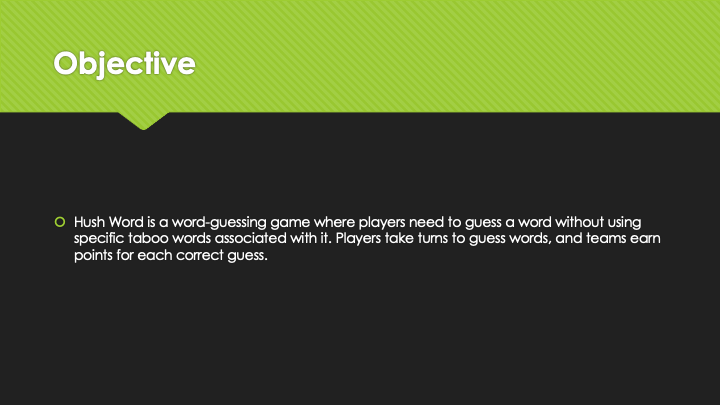
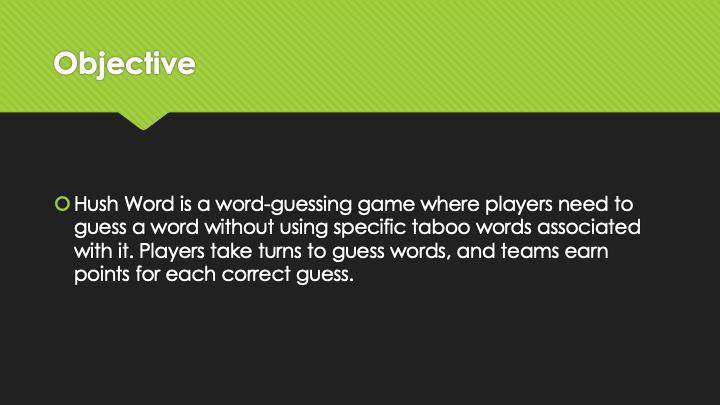
made how to play text larger

Changed region(s): [[0.0611, 0.4741, 0.9167, 0.7111]]

diff --git a/index.html b/index.html
@@ -131,6 +131,8 @@
                     aria-label="Slide 3"></button>
                 <button type="button" data-bs-target="#carouselExampleIndicators" data-bs-slide-to="3"
                     aria-label="Slide 4"></button>
+                    <button type="button" data-bs-target="#carouselExampleIndicators" data-bs-slide-to="4"
+                    aria-label="Slide 5"></button>
 
             </div>
             <div class="carousel-inner">
@@ -145,6 +147,9 @@
                 </div>
                 <div class="carousel-item">
                     <img src="Images/how to play-green/Slide4.png" class="d-block w-100" alt="...">
+                </div>
+                <div class="carousel-item">
+                    <img src="Images/how to play-green/Slide5.png" class="d-block w-100" alt="...">
                 </div>
             </div>
             <button class="carousel-control-prev" type="button" data-bs-target="#carouselExampleIndicators"
